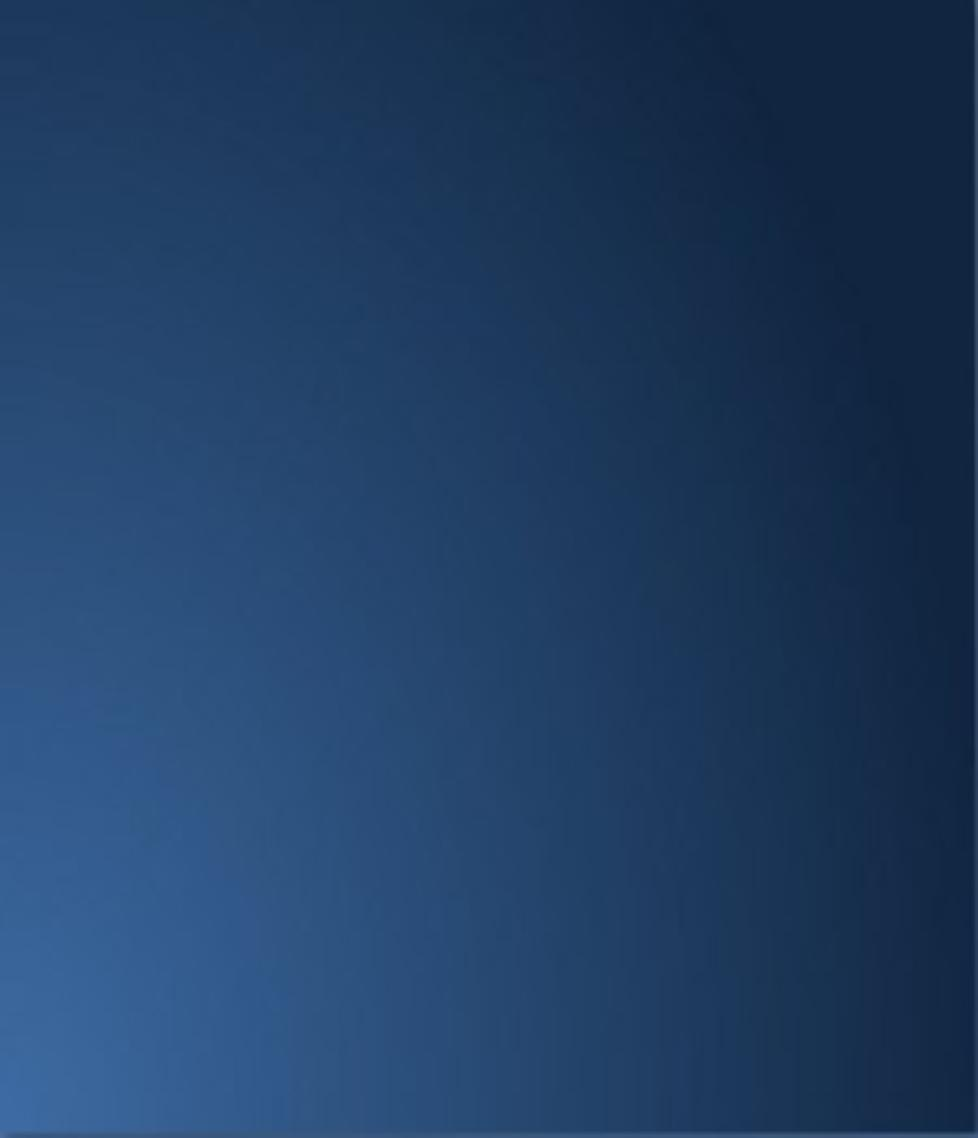
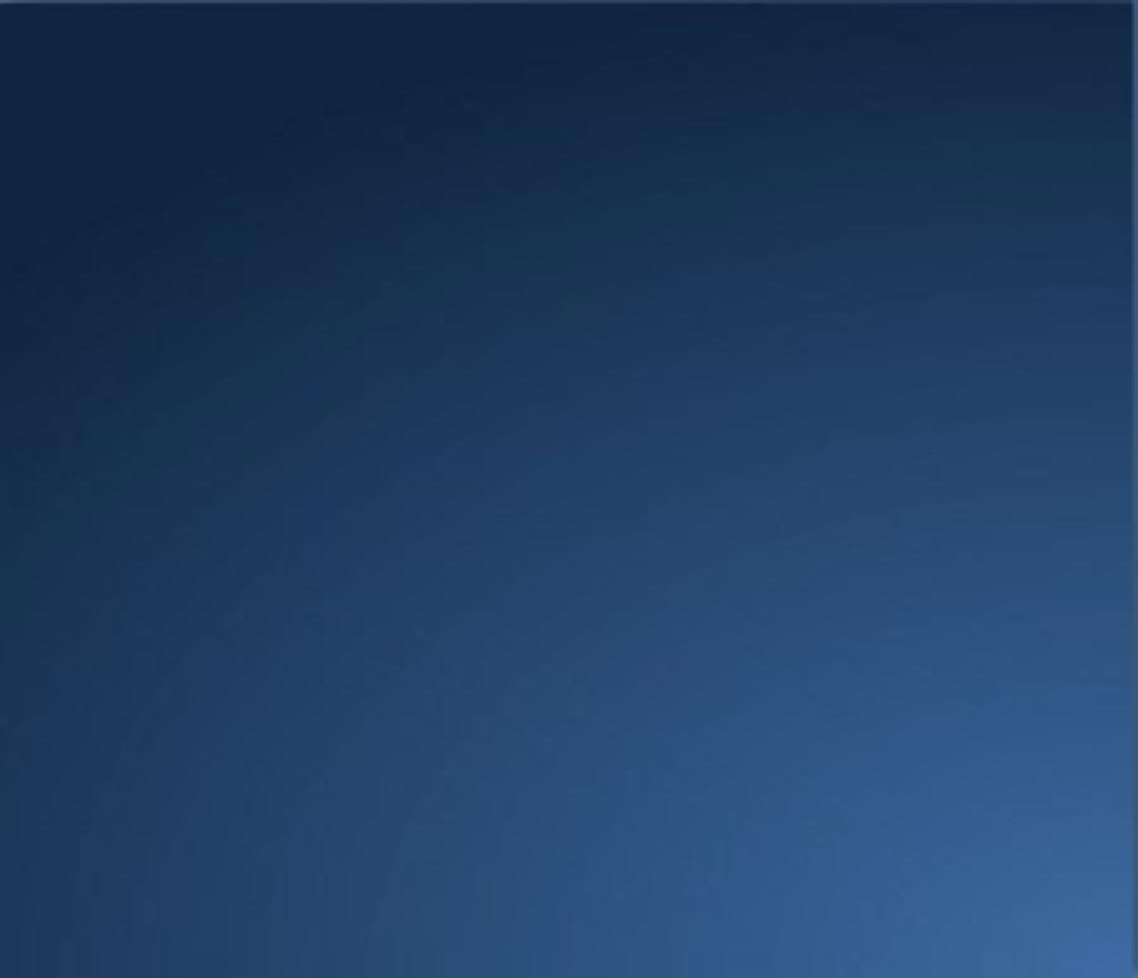
added images to elements and background

diff --git a/src/game.js b/src/game.js
@@ -23,7 +23,7 @@ function Game() {
   this.gameScreen = null;
 
   this.background = new Image();
-  this.background.src = './img/sea-background3.jpg'
+  this.background.src = './img/sea-background4.jpg'
 }
 
 // to start game
@@ -32,8 +32,6 @@ Game.prototype.start = function() {
   this.canvasContainer = document.querySelector(".canvas-container");
   this.canvas = this.canvasContainer.querySelector("canvas");
   this.ctx = this.canvas.getContext("2d");
-
-  
 
   var containerWidth = this.canvasContainer.offsetWidth;
   var containerHeight = this.canvasContainer.offsetHeight;
@@ -92,15 +90,15 @@ Game.prototype.start = function() {
 Game.prototype.startLoop = function() {
   var loop = function() {
     // 1. create tentacles randomly
-    if (Math.random() > 0.99) {
+    if (Math.random() > 0.991) {
       // determine random position
       var randomPosition = 0;
       var randomCalc = this.canvas.width * Math.random();
 
-      if (randomCalc < 10) {
+      if (randomCalc < 20) {
         randomPosition = 10;
       } else if (randomCalc > this.canvas.width - 50) {
-        randomPosition = this.canvas.width - 50;
+        randomPosition = this.canvas.width - 60;
       } else {
         randomPosition = randomCalc;
       }
@@ -275,7 +273,7 @@ Game.prototype.shootCannonballs = function() {
     // to determine which ship is shooting and its position
     var currentShipPositionX =
       this.shipArr[this.selectedShip].x +
-      this.shipArr[this.selectedShip].size / 4;
+      this.shipArr[this.selectedShip].width / 4;
     var currentShipPositionY = this.shipArr[this.selectedShip].y;
 
     // to create new cannonball and push into cannonballs array
@@ -305,7 +303,7 @@ Game.prototype.shootCannonballs = function() {
 Game.prototype.handleTentacleCollision = function(ship, stackedTentacle) {
   // variables for easier reading
   var shipTop = ship.y;
-  var shipRight = ship.x + ship.size;
+  var shipRight = ship.x + ship.width;
   var shipLeft = ship.x;
 
   var stackedTentacleLeft = stackedTentacle.x;

diff --git a/src/ship.js b/src/ship.js
@@ -5,28 +5,43 @@ function Ship(canvas, yPosition) {
   this.canvas = canvas;
   this.ctx = canvas.getContext("2d");
 
-  this.size = 50;
+  this.width = 80;
+  this.heigth = 50;
 
   this.x = 10;
   this.y = yPosition;
 
   this.direction = 0;
-  this.speed = 5;
+  this.speed = 3;
 
   this.canShoot = true;
   this.canMove = true;
+  // diferent types of ship images
+  this.imageRightGreen = "./img/ship-right-canshoot.png";
+  this.imageLeftGreen = "./img/ship-left-canshoot.png";
+  this.imageRightRed = "./img/ship-right-cantshoot.png";
+  this.imageLeftRed = "./img/ship-left-cantshoot.png";
 
   this.shipImage = new Image();
-  this.shipImage.src = './img/ship-right-canshoot.png'
+  this.shipImage.src = this.imageRightGreen;
 }
 
 // to add ship
-Ship.prototype.draw = function(color) {
-//   this.ctx.fillStyle = color;
+Ship.prototype.draw = function(shipImage) {
+  //   this.ctx.fillStyle = color;
 
   // fillRect(x, y, width, height)
-  this.ctx.drawImage(this.shipImage, this.x, this.y, this.size, this.size)
-//   this.ctx.fillRect(this.x, this.y, this.size, this.size);
+  //   this.ctx.fillRect(this.x, this.y, this.width, this.heigth);
+  if (this.direction < 0 && this.canShoot === true) {
+    this.shipImage.src = this.imageLeftGreen
+  } else if (this.direction < 0 && this.canShoot === false) {
+    this.shipImage.src = this.imageLeftRed
+  } else if (this.direction >= 0 && this.canShoot === true) {
+    this.shipImage.src = this.imageRightGreen
+  } else if (this.direction >= 0 && this.canShoot === false) {
+    this.shipImage.src = this.imageRightRed
+}
+    this.ctx.drawImage(this.shipImage, this.x, this.y, this.width, this.heigth);
 };
 
 // to change direction based on keydown
@@ -47,7 +62,7 @@ Ship.prototype.handleScreenCollision = function() {
   var screenLeft = 0;
   var screenRight = this.canvas.width;
 
-  if (this.x + this.size > screenRight) {
+  if (this.x + this.width > screenRight) {
     this.direction = -1;
   } else if (this.x < screenLeft) {
     this.direction = 1;

diff --git a/src/main.js b/src/main.js
@@ -27,12 +27,12 @@ function main() {
                     <h1>Kraken Brigade</h1>
                 </div>
                 <div class ="splash" id="instructions-box">
-                    <h2>Instructions...</h2>
+                    <h2>Instructions!</h2>
                     <p>
-                    "Arrow Left" -> Move Ship Left<br>
-                    "Arrow Right" -> Move Ship Right<br>
-                    "Arrow Up" -> Shoot Those Darn Tentacles!<br>
-                    "Q" -> Toogle Between Ships<br>
+                    Arrow Left -> Move Ship Left<br>
+                    Arrow Right -> Move Ship Right<br>
+                    Arrow Up -> Shoot Those Darn Tentacles!<br>
+                    Q -> Toogle Between Ships<br>
                     </p>
                 </div>
                 <div class ="splash" id="start-btn-box">

diff --git a/css/style.css b/css/style.css
@@ -41,21 +41,18 @@ body {
 
 #title-box {
   text-align: center;
-  background-color: green;
   margin: 50px auto 50px auto;
   padding: 20px;
 }
 
 #instructions-box {
   text-align: center;
-  background-color: blue;
   margin: 50px auto 50px auto;
   padding: 20px;
 }
 
 #start-btn-box {
   text-align: center;
-  background-color: red;
   margin: 50px auto 50px auto;
   padding: 20px;
 }

diff --git a/src/tentacle.js b/src/tentacle.js
@@ -6,10 +6,10 @@ function Tentacle(canvas, x) {
   this.ctx = this.canvas.getContext("2d");
 
   this.height = 50;
-  this.width = 25;
+  this.width = 30;
   this.x = x;
   this.y = 0;
-  this.speed = 3;
+  this.speed = 1;
 
   this.tentacleImage = new Image();
   this.tentacleImage.src = './img/tentacle.png'
